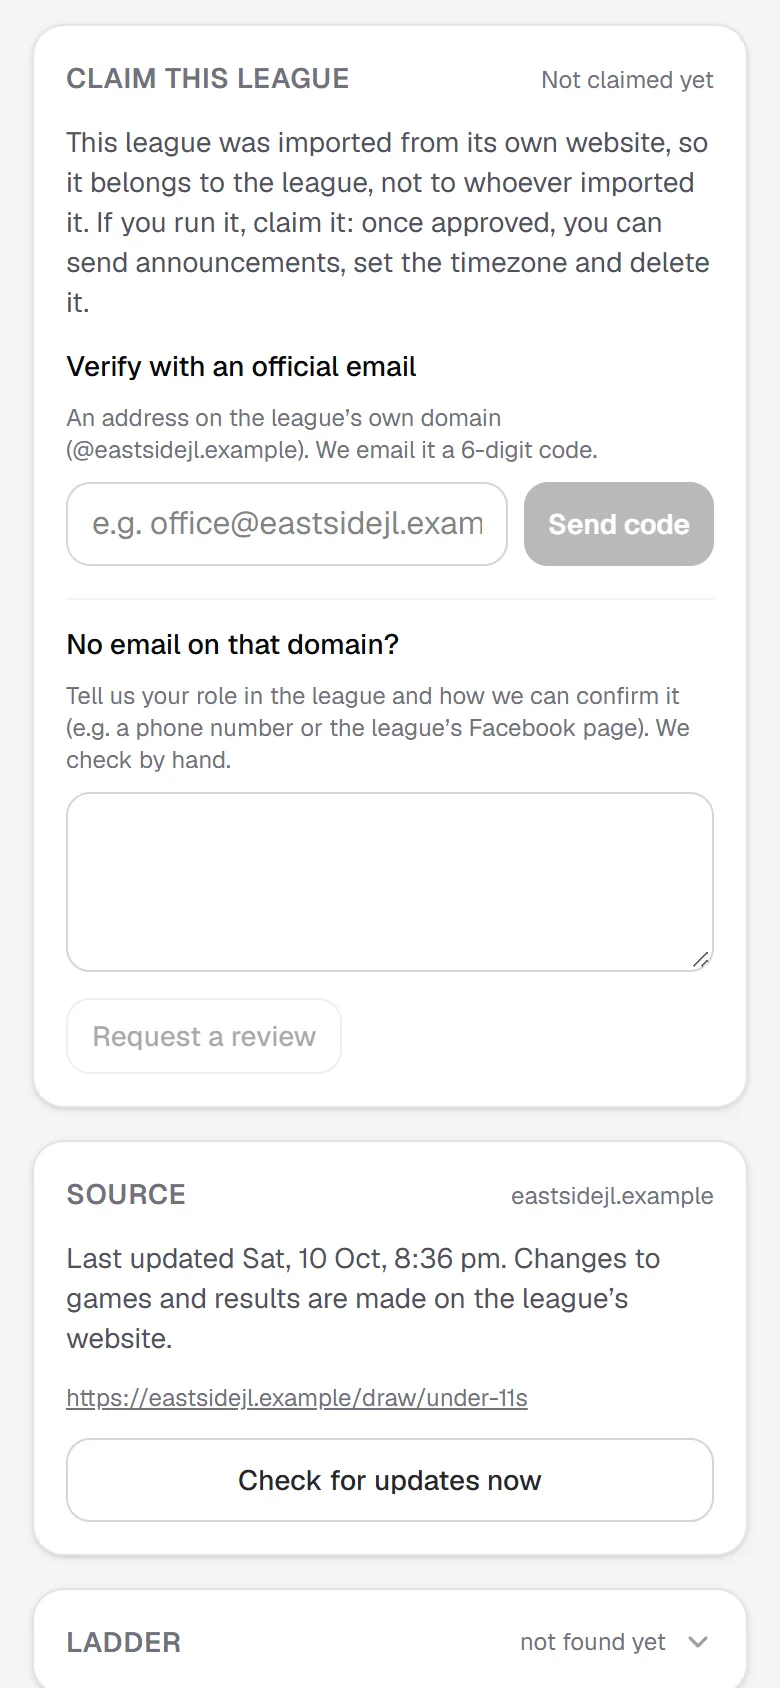
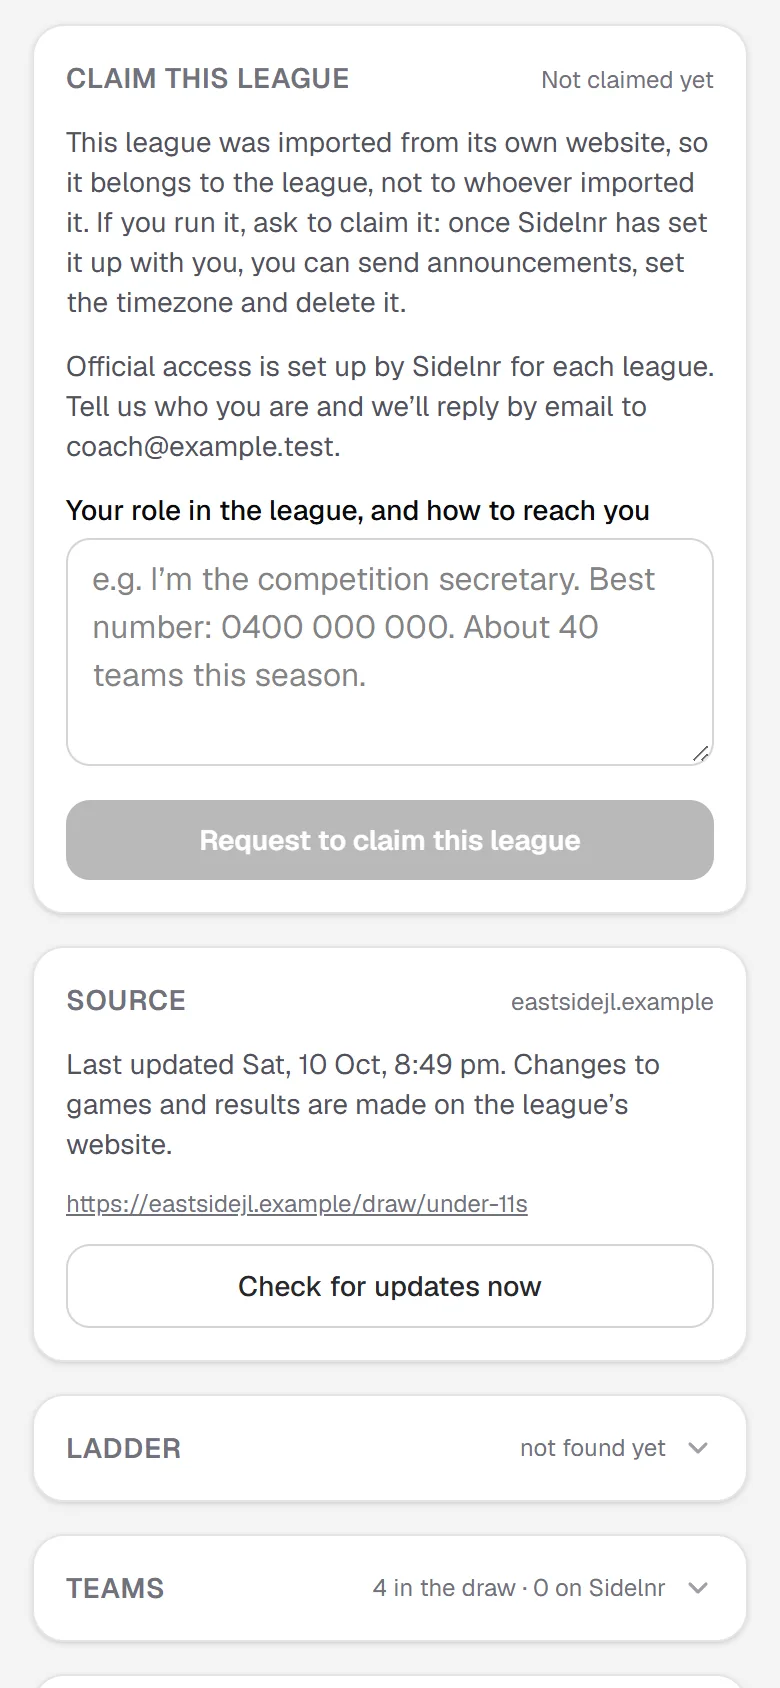
Official leagues by request only: the email-code shortcut is off, a request emails the owner (league, website, who's asking, their note) to reply with terms, then Approve or Decline on the owner page

Changed region(s): [[0.0615, 0.1232, 0.9231, 0.9858], [0.8923, 0.955, 0.9231, 0.9858]]

diff --git a/src/app/account/leagues/VerifyLeague.tsx b/src/app/account/leagues/VerifyLeague.tsx
@@ -2,138 +2,72 @@
 
 import { useState, useTransition } from "react";
 import { useRouter } from "next/navigation";
-import { confirmLeagueCode, requestLeagueReview, sendLeagueCode } from "./actions";
+import { requestLeagueReview } from "./actions";
 
 const field = "w-full rounded-xl border border-zinc-300 bg-white px-3 py-2 text-base";
 
-// Unlocks league announcements: prove you run the league with a one-time code
-// sent to an email on its own domain, or ask Sidelnr to review it.
+// Official access (announcements, the tick, and owning an imported league) is
+// set up by Sidelnr for each league, by hand: the request goes to the Sidelnr
+// owner, who replies by email.
 export function VerifyLeague({
   competitionId,
-  domains,
+  contactEmail,
   reviewRequested,
   claim = false,
 }: {
   competitionId: string;
-  domains: string[]; // e.g. ["wnbl.com.au"]
-  reviewRequested: string | null; // when a review was asked for, if one is waiting
+  contactEmail: string | null; // the signed-in manager's email: where the reply goes
+  reviewRequested: string | null; // when a request was sent, if one is waiting
   claim?: boolean; // an imported league: this is how someone claims it
 }) {
   const router = useRouter();
-  const [email, setEmail] = useState("");
-  const [code, setCode] = useState("");
   const [note, setNote] = useState("");
-  const [step, setStep] = useState<"email" | "code">("email");
   const [msg, setMsg] = useState<{ error?: string; ok?: string } | null>(null);
   const [pending, start] = useTransition();
 
-  const send = () =>
-    start(async () => {
-      const res = await sendLeagueCode(competitionId, email);
-      if ("error" in res) return setMsg({ error: res.error });
-      setStep("code");
-      setMsg({ ok: `Code sent to ${email.trim()}. It expires in 15 minutes.` });
-    });
-  const confirm = () =>
-    start(async () => {
-      const res = await confirmLeagueCode(competitionId, code);
-      if ("error" in res) return setMsg({ error: res.error });
-      setMsg({ ok: claim ? "Claimed. This league is now yours to manage." : "Verified. This league is now official." });
-      router.refresh();
-    });
-  const review = () =>
+  const request = () =>
     start(async () => {
       const res = await requestLeagueReview(competitionId, note);
       if ("error" in res) return setMsg({ error: res.error });
-      setMsg({ ok: "Thanks. We’ll check and get back to you." });
+      setMsg({ ok: "Thanks. We’ll be in touch by email." });
       router.refresh();
     });
 
   return (
-    <div className="space-y-4 text-sm">
-      {!claim && (
-        <p className="text-zinc-600">
-          Anyone can set up or import a league, so announcements only unlock once the league is verified as official. Verified
-          leagues get a tick next to their name.
-        </p>
+    <div className="space-y-3 text-sm">
+      <p className="text-zinc-600">
+        {claim
+          ? "Official access is set up by Sidelnr for each league."
+          : "Anyone can set up or import a league, so announcements only unlock once Sidelnr has made the league official. Official leagues get a tick next to their name."}{" "}
+        Tell us who you are and we’ll reply by email{contactEmail ? ` to ${contactEmail}` : ""}.
+      </p>
+      {reviewRequested ? (
+        <p className="rounded-xl bg-amber-50 px-3 py-2 text-amber-900">Request sent on {reviewRequested}. We’ll be in touch by email.</p>
+      ) : (
+        <>
+          <label className="block">
+            <span className="mb-1 block font-medium">Your role in the league, and how to reach you</span>
+            <textarea
+              value={note}
+              onChange={(e) => setNote(e.target.value)}
+              rows={4}
+              maxLength={1000}
+              placeholder="e.g. I’m the competition secretary. Best number: 0400 000 000. About 40 teams this season."
+              className={field}
+            />
+          </label>
+          <button
+            type="button"
+            onClick={request}
+            disabled={pending || note.trim().length < 10}
+            className="w-full rounded-xl bg-zinc-900 px-3 py-2.5 font-semibold text-white disabled:opacity-30"
+          >
+            {pending ? "Sending…" : claim ? "Request to claim this league" : "Request official access"}
+          </button>
+        </>
       )}
-
-      {domains.length > 0 && (
-        <div className="space-y-2">
-          <span className="block font-medium">Verify with an official email</span>
-          {step === "email" ? (
-            <>
-              <span className="block text-xs text-zinc-500">
-                An address on the league’s own domain ({domains.map((d) => `@${d}`).join(" or ")}). We email it a 6-digit code.
-              </span>
-              <div className="flex gap-2">
-                <input
-                  value={email}
-                  onChange={(e) => setEmail(e.target.value)}
-                  type="email"
-                  inputMode="email"
-                  autoCapitalize="none"
-                  autoCorrect="off"
-                  spellCheck={false}
-                  placeholder={`e.g. office@${domains[0]}`}
-                  className={`${field} min-w-0 flex-1`}
-                />
-                <button type="button" onClick={send} disabled={pending || !email.trim()} className="rounded-xl bg-zinc-900 px-3 py-2 font-semibold text-white disabled:opacity-30">
-                  {pending ? "Sending…" : "Send code"}
-                </button>
-              </div>
-            </>
-          ) : (
-            <>
-              <div className="flex gap-2">
-                <input
-                  value={code}
-                  onChange={(e) => setCode(e.target.value.replace(/\D/g, "").slice(0, 6))}
-                  inputMode="numeric"
-                  autoComplete="one-time-code"
-                  placeholder="6-digit code"
-                  className={`${field} min-w-0 flex-1 font-mono tracking-widest`}
-                />
-                <button type="button" onClick={confirm} disabled={pending || code.length !== 6} className="rounded-xl bg-zinc-900 px-3 py-2 font-semibold text-white disabled:opacity-30">
-                  {pending ? "Checking…" : "Verify"}
-                </button>
-              </div>
-              <button
-                type="button"
-                onClick={() => {
-                  setStep("email");
-                  setCode("");
-                  setMsg(null);
-                }}
-                className="text-xs text-zinc-500 underline"
-              >
-                Use a different email or send a new code
-              </button>
-            </>
-          )}
-        </div>
-      )}
-
-      <div className="space-y-2 border-t border-zinc-100 pt-3">
-        <span className="block font-medium">{domains.length ? "No email on that domain?" : "Request a review"}</span>
-        {reviewRequested ? (
-          <p className="rounded-xl bg-amber-50 px-3 py-2 text-amber-900">Review requested on {reviewRequested}. We’ll be in touch.</p>
-        ) : (
-          <>
-            <span className="block text-xs text-zinc-500">
-              Tell us your role in the league and how we can confirm it (e.g. a phone number or the league’s Facebook page). We check
-              by hand.
-            </span>
-            <textarea value={note} onChange={(e) => setNote(e.target.value)} rows={3} maxLength={1000} className={field} />
-            <button type="button" onClick={review} disabled={pending || note.trim().length < 10} className="rounded-xl border border-zinc-300 px-3 py-2 font-medium text-zinc-800 disabled:opacity-40">
-              Request a review
-            </button>
-          </>
-        )}
-      </div>
-
       {msg?.error && <p className="text-accent">{msg.error}</p>}
-      {msg?.ok && <p className="text-emerald-700">{msg.ok}</p>}
+      {msg?.ok && !reviewRequested && <p className="text-emerald-700">{msg.ok}</p>}
     </div>
   );
 }

diff --git a/src/app/account/leagues/actions.ts b/src/app/account/leagues/actions.ts
@@ -39,7 +39,7 @@ import { headers } from "next/headers";
 import { addAnnouncement } from "@/lib/messages";
 import { notifyManagers, notifyTeam, preview } from "@/lib/push";
 import { getManager, teamManagerIds } from "@/lib/accounts";
-import { leagueCodeEmail, leagueMessageEmail, sendEmail } from "@/lib/email";
+import { leagueCodeEmail, leagueMessageEmail, leagueRequestEmail, sendEmail } from "@/lib/email";
 import { confirmEmailClaim, officialDomains, requestReview, startEmailClaim } from "@/lib/league-verify";
 import { addLeagueMessage } from "@/lib/league-messages";
 
@@ -746,6 +746,8 @@ export async function sendLeagueMessage(competitionId: string, _: unknown, formD
 
 // Step 1: a code to an email on the league's own domain.
 export async function sendLeagueCode(competitionId: string, email: string) {
+  // Official access is by request only now (the Sidelnr owner sets it up per league).
+  if (OFFICIAL_BY_REQUEST_ONLY) return { error: "Official access is by request. Use the form to tell us about your league." };
   const c = await claimableCompetition(competitionId);
   const managerId = await currentManagerId();
   if (!c || !managerId) return { error: "Not authorised." };
@@ -762,6 +764,7 @@ export async function sendLeagueCode(competitionId: string, email: string) {
 
 // Step 2: the code back; the league is then official.
 export async function confirmLeagueCode(competitionId: string, code: string) {
+  if (OFFICIAL_BY_REQUEST_ONLY) return { error: "Official access is by request." };
   const c = await claimableCompetition(competitionId);
   const managerId = await currentManagerId();
   if (!c || !managerId) return { error: "Not authorised." };
@@ -770,13 +773,26 @@ export async function confirmLeagueCode(competitionId: string, code: string) {
   return res;
 }
 
-// No league domain: ask Sidelnr to check by hand.
+// Official access (and claiming an imported league) is by request: it goes to
+// the Sidelnr owner's page and inbox, who replies to the manager by email.
+const OFFICIAL_BY_REQUEST_ONLY = true;
+
 export async function requestLeagueReview(competitionId: string, note: string) {
   const c = await claimableCompetition(competitionId);
   const managerId = await currentManagerId();
   if (!c || !managerId) return { error: "Not authorised." };
-  if (c.league.verified_at) return { error: "This league is already verified." };
+  if (c.league.verified_at) return { error: "This league is already official." };
   const res = await requestReview(c.league_id, managerId, note);
-  if ("ok" in res) refreshAll();
+  if ("ok" in res) {
+    refreshAll();
+    const owner = process.env.OWNER_EMAIL?.trim();
+    const from = (await getManager(managerId))?.email ?? "unknown";
+    if (owner) {
+      after(async () => {
+        const mail = leagueRequestEmail(c.league.name, c.name, from, note.trim().slice(0, 1000), c.feed_url ?? c.league.website ?? null);
+        await sendEmail(owner, mail.subject, mail.text, mail.html);
+      });
+    }
+  }
   return res;
 }

diff --git a/src/app/account/competitions/[id]/page.tsx b/src/app/account/competitions/[id]/page.tsx
@@ -22,8 +22,9 @@ import { UpdateNow } from "../../leagues/UpdateNow";
 import { LeagueMessageForm } from "../../leagues/LeagueMessage";
 import { listLeagueMessages } from "@/lib/league-messages";
 import { VerifyLeague } from "../../leagues/VerifyLeague";
-import { leagueClaims, officialDomains } from "@/lib/league-verify";
+import { leagueClaims } from "@/lib/league-verify";
 import { currentManagerId, isSuperAdmin } from "@/lib/session";
+import { getManager } from "@/lib/accounts";
 import { adminLeagueIds, listCompetitionTeamNames, listFixtures } from "@/lib/fixtures";
 import { competitionTz, formatDay, getCompetition, listCompetitions } from "@/lib/league";
 import { formatTime } from "@/lib/time";
@@ -116,16 +117,16 @@ export default async function CompetitionAdminPage({ params, searchParams }: Pag
   const [sent, claims] = await Promise.all([listLeagueMessages(competition.league_id, 5), verified ? [] : leagueClaims(competition.league_id)]);
   const waitingReview = claims.find((c) => c.kind === "review" && c.status === "pending");
   const messageCard = !verified ? (
-    <Card title={imported ? "Claim this league" : "League announcement"} aside={imported ? "Not claimed yet" : "Verify to unlock"}>
+    <Card title={imported ? "Claim this league" : "League announcement"} aside={imported ? "Not claimed yet" : "By request"}>
       {imported && (
         <p className="mb-3 text-sm text-zinc-600">
           This league was imported from its own website, so it belongs to the league, not to whoever imported it. If you run
-          it, claim it: once approved, you can send announcements, set the timezone and delete it.
+          it, ask to claim it: once Sidelnr has set it up with you, you can send announcements, set the timezone and delete it.
         </p>
       )}
       <VerifyLeague
         competitionId={id}
-        domains={officialDomains(competition.league, siblings.map((c) => c.feed_url))}
+        contactEmail={managerId ? ((await getManager(managerId))?.email ?? null) : null}
         reviewRequested={waitingReview ? formatDay(new Date(waitingReview.created_at), tz) : null}
         claim={imported}
       />

diff --git a/src/lib/email.ts b/src/lib/email.ts
@@ -100,3 +100,18 @@ export function feedbackEmail(kind: string, message: string, page: string | null
 </div>`;
   return { subject: `Sidelnr feedback: ${kind}`, text, html };
 }
+
+/** A league asks for official access (or to claim an imported league): to the owner, who replies by email. */
+export function leagueRequestEmail(league: string, competition: string, from: string, note: string, link: string | null) {
+  const esc = (v: string) => v.replace(/&/g, "&amp;").replace(/</g, "&lt;").replace(/>/g, "&gt;");
+  const text = `${league} (${competition}) asks for official access.\n\nFrom: ${from}\n${link ? `Website: ${link}\n` : ""}\n${note}\n\nReply to ${from} with your terms, then Approve or Decline on the owner page: https://sidelnr.app/super`;
+  const html = `<div style="font-family:system-ui,-apple-system,Segoe UI,sans-serif;max-width:520px;margin:0 auto;padding:24px;color:#09090b">
+  <h1 style="font-size:22px;margin:0 0 4px">Sidelnr<span style="color:#e5334b">.</span></h1>
+  <p style="margin:0 0 16px;color:#52525b">Official league request</p>
+  <p style="font-size:16px;font-weight:600;margin:0">${esc(league)} <span style="font-weight:400;color:#52525b">(${esc(competition)})</span></p>
+  <p style="font-size:14px;margin:8px 0">From: <a href="mailto:${esc(from)}">${esc(from)}</a>${link ? `<br>Website: ${esc(link)}` : ""}</p>
+  <p style="white-space:pre-wrap;font-size:15px;line-height:1.5;background:#f4f4f5;border-radius:12px;padding:12px">${esc(note)}</p>
+  <p style="font-size:13px;color:#71717a">Reply to them with your terms, then Approve or Decline on the <a href="https://sidelnr.app/super">owner page</a>.</p>
+</div>`;
+  return { subject: `Official league request: ${league}`, text, html };
+}

diff --git a/src/app/features/page.tsx b/src/app/features/page.tsx
@@ -118,8 +118,8 @@ export default function FeaturesPage() {
           (notification and email), e.g. a washed-out game day.
         </li>
         <li>
-          <b>Official leagues:</b> announcements unlock once a league is verified, with a one-time code sent to an email on
-          the league’s own domain, or after a review by Sidelnr. Verified leagues show a tick.
+          <b>Official leagues:</b> announcements unlock once Sidelnr has made the league official, by request: the league
+          tells us who they are and we set it up with them by email. Official leagues show a tick.
         </li>
       </ul>
 

diff --git a/src/components/Guide.tsx b/src/components/Guide.tsx
@@ -159,7 +159,7 @@ const PATHS: Path[] = [
       {
         image: "/guide/league-4-claim.webp",
         title: "Run the league? Claim it",
-        text: "A league added with a link belongs to the league, not to whoever added it. If you run it, claim it with a code sent to an email on the league’s own website domain, or ask us to check by hand.",
+        text: "A league added with a link belongs to the league, not to whoever added it. If you run it, ask to claim it: tell us your role in the league, and we’ll set it up with you by email.",
       },
       {
         image: "/guide/league-5-announce.webp",
